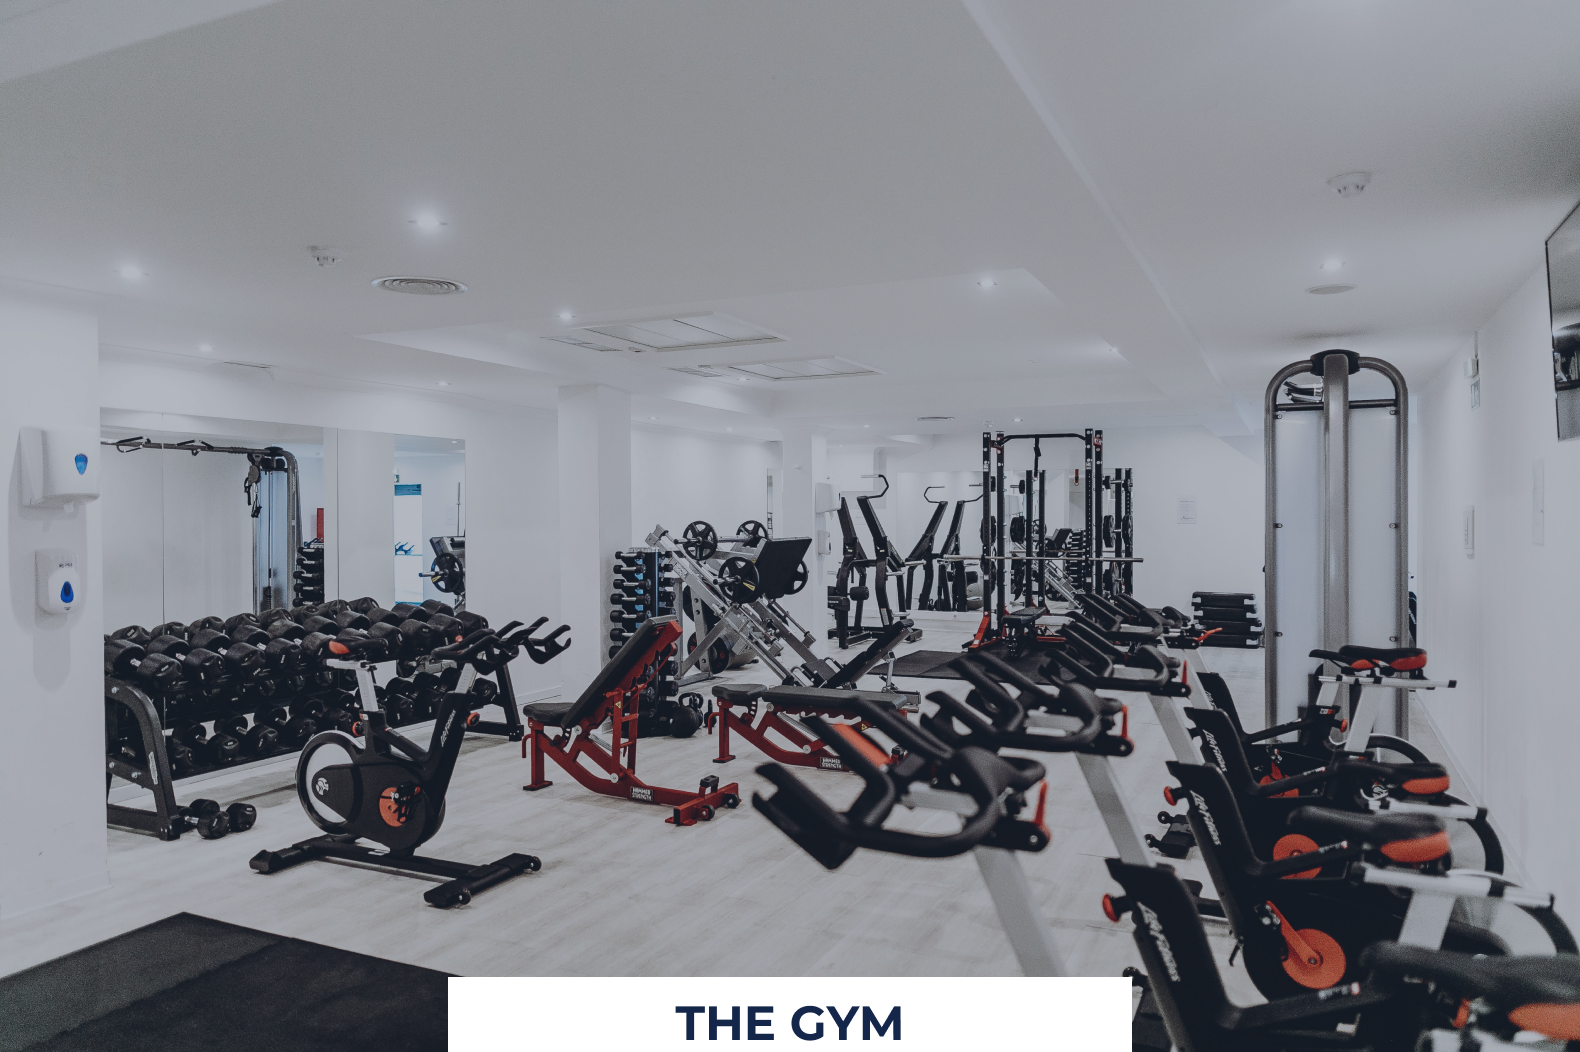
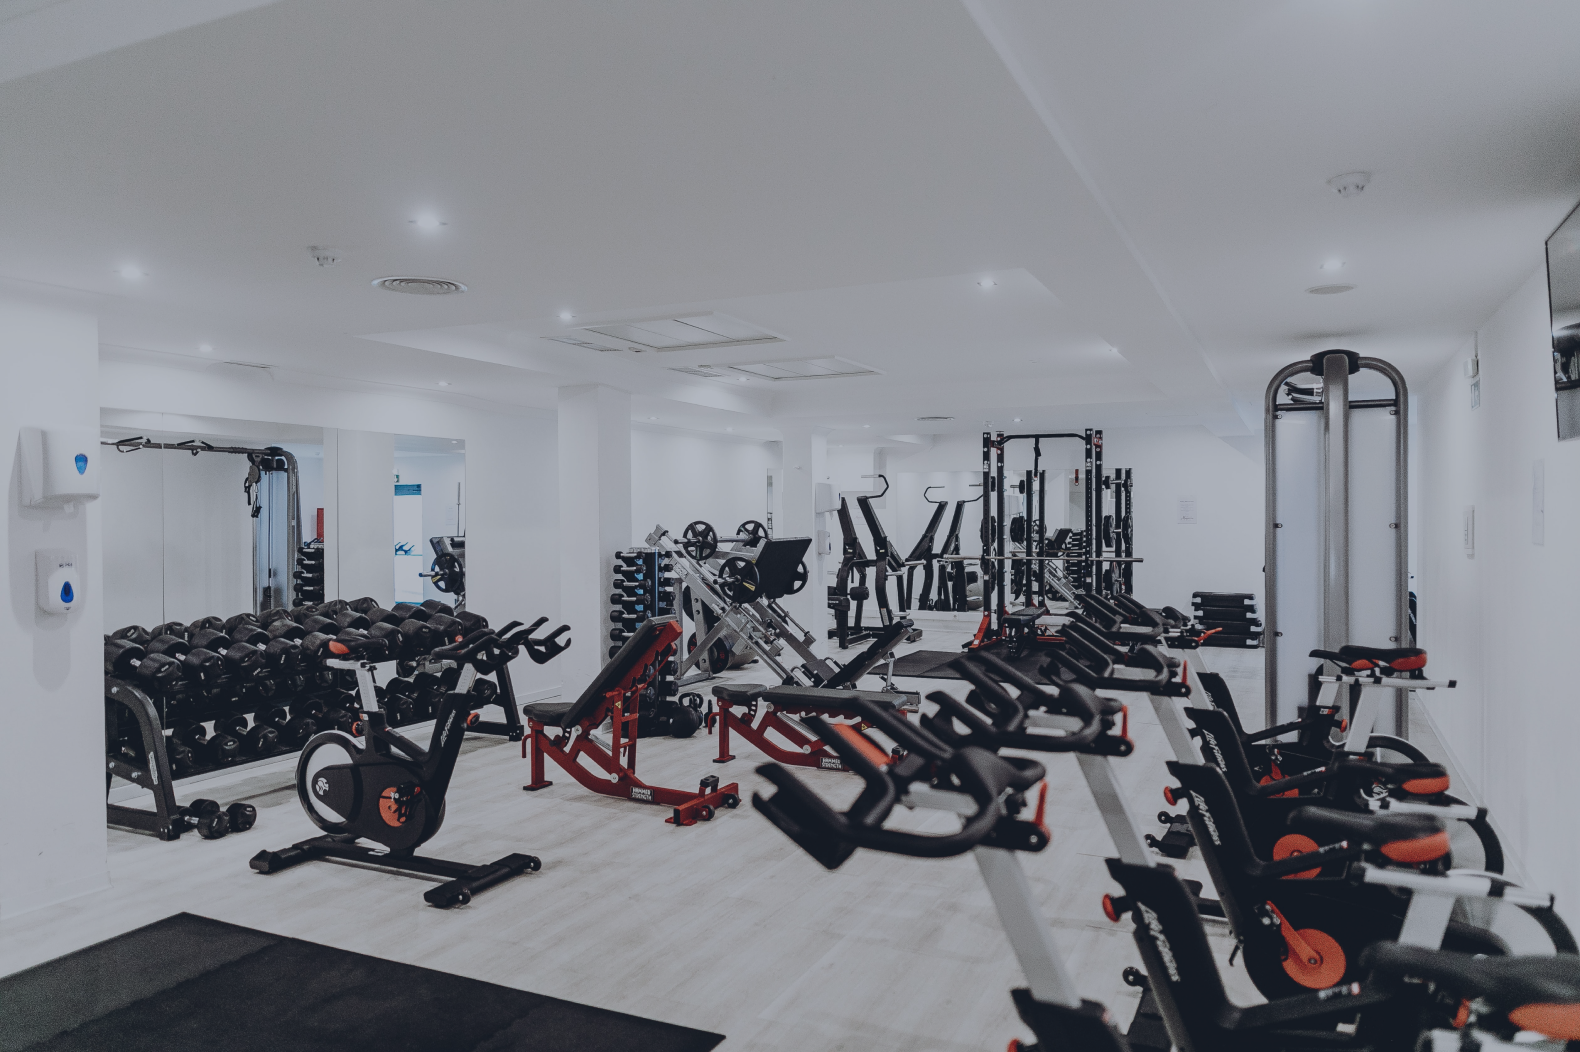
test

Changed region(s): [[0.2791, 0.9125, 0.7443, 1.0]]

diff --git a/scss/components/_features.scss b/scss/components/_features.scss
@@ -1,32 +1,37 @@
 .features {
     text-align: center;
-    
     &__info {
         p {
-            font-family: "Montserrat";
-            color: #14274A;
             line-height: 30px;
-            font-weight: 400;
-            font-size: 24px;
+            @include fontStyles(24px, 400, $text-purple,'Montserrat');
         }
         h2 {
-            color: #14274A;
-            font-weight: 700;
-            font-size: 60px;
+            @include fontStyles(60px, 700, $text-purple,'Times New Roman');
         }
-
     }
-    &__content {
+    &__content {    
         img {
             width: 100%;
         }
         .other {
-            
             margin-top: 186px;
         }
-        .gym {
-            
-            margin-top: 83px;
+        .gym {  
+          background: url(../assets/images/facilities-gym.png);
+          height: 1052px;
+          width: 1500px;
+          margin-top: 83px;
         }
+        .box {
+            background: #fff;
+            height: 75px;
+            width: 684px;
+            
+        }
+        p{
+            @include fontStyles(60px, 700, $text-purple,'Times New Roman');
+            text-align: center;
+        }
+        
     }
 }

diff --git a/facilities.html b/facilities.html
@@ -54,8 +54,9 @@
             <h2>FACILITIES</h2>
             <p>We want your stay at our lush hotel to be truly unforgettable. That is why we give special attention to all of your needs so that we can ensure an experience quite uniquw. Luxury hotels offers the perfect setting with stunning views for leisure and our modern luxury resort facilities will help you enjoy the best of all.</p>
            </div>
-           <div class="facilities__content">
-               <img class="gym" src="./assets/images/facilities-gym.png" alt="">
+           <div class="features__content">
+               <div class="gym"></div>
+               <div class="box"><p>THE GYM</p></div>
                <img class="other" src="./assets/images/facilities-bar.png" alt="">
                <img class="other" src="./assets/images/facilities-spa.png" alt="">
                <img class="other" src="./assets/images/facilities-pool.png" alt="">
